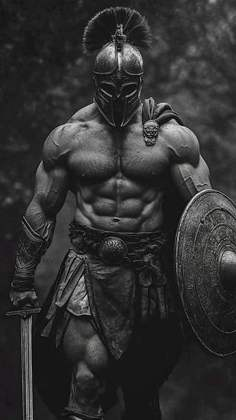
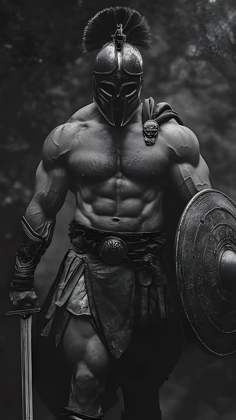
Imaginile vechi la rezoluție mică scoase; intro nou: bustul mărit 4× (Real-ESRGAN), 14 cadre 720p dedicate în spate, ritm tot mai rapid; spartanul mărit; imaginile se păstrează în cache
Claude-Session: https://claude.ai/code/session_01Hh62C1qWTzcBwUiuA6yuRD

diff --git a/index.html b/index.html
@@ -387,10 +387,10 @@ textarea.ji{resize:none;padding:0;border-bottom:0;background-image:repeating-lin
 #intro{position:fixed;inset:0;z-index:30;background:#050505;overflow:hidden;color:#eee;cursor:pointer;--b0:1}
 #intro.out{opacity:0;transform:scale(1.04);transition:opacity .5s ease,transform .5s ease}
 .in-wall{position:absolute;inset:-6%;opacity:0;animation:inWall 2.1s ease .05s forwards}
-.in-wall img{position:absolute;inset:0;width:100%;height:100%;object-fit:cover;filter:grayscale(1) contrast(1.4) brightness(1.05);opacity:0}
+.in-wall img{position:absolute;inset:0;width:100%;height:100%;object-fit:cover;filter:contrast(1.15) brightness(1.3);opacity:0}
 .in-wall img.on{opacity:1}
 @keyframes inWall{0%{opacity:0}15%{opacity:.9}75%{opacity:.75}100%{opacity:0}}
-.in-red{position:absolute;inset:0;background:#a50b0b;mix-blend-mode:multiply;opacity:.6;pointer-events:none}
+.in-red{position:absolute;inset:0;background:radial-gradient(80% 60% at 50% 42%,#e0301f 0%,#9c0d09 60%,#2a0303 100%);mix-blend-mode:multiply;opacity:.55;pointer-events:none}
 .in-embers i{position:absolute;bottom:-10px;width:3px;height:3px;border-radius:50%;background:#ff4d2e;box-shadow:0 0 8px #ff3b1f;animation:ember linear forwards;opacity:0}
 @keyframes ember{0%{opacity:0;transform:translateY(0)}15%{opacity:1}100%{opacity:0;transform:translate(var(--dx),-70vh)}}
 .in-bust{position:absolute;left:50%;top:50%;height:100%;max-width:none;transform:translate(-50%,-50%) scale(1.1);opacity:0;
@@ -1293,9 +1293,7 @@ function artFor(x){
   if(!ART)return null;
   if(artPick.has(x.id))return artPick.get(x.id);
   const th=themesFor(x).filter(t=>ART[t]&&ART[t].length);if(!th.length)return null;
-  const h=hashStr(x.id+"|"+x.t),L0=ART[th[h%th.length]];
-  // imaginile la rezoluție mare (hq) au prioritate; cele vechi apar doar din când în când
-  const HQ=L0.filter(a=>a.id.startsWith("hq")),L=HQ.length>=6&&(h>>>3)%6?HQ:L0;
+  const h=hashStr(x.id+"|"+x.t),L=ART[th[h%th.length]];
   const src=a=>a.src==="HT"?a.id.slice(0,4):a.f;
   let k=(h>>>7)%L.length;
   for(let t=0;t<L.length&&artRecent.includes(src(L[k]));t++)k=(k+1)%L.length;
@@ -2747,28 +2745,31 @@ document.addEventListener("visibilitychange",()=>{if(!document.hidden)setTimeout
 setInterval(()=>{if(!document.hidden)checkMood()},5*60*1000);
 // ── intro la deschidere: cu sunet, așteaptă o atingere (iPhone dă voie la sunet doar după atingere) ──
 let introOn=!!$("intro");
+// cadrele din spatele intro-ului se încarcă imediat (cât aștepți atingerea)
+const WALL=Array.from({length:14},(_,i)=>`brand/wall/w${String(i).padStart(2,"0")}.jpg`),WALLOK=new Set();
+if(introOn)WALL.forEach(u=>{const im=new Image();im.onload=()=>WALLOK.add(u);im.src=u});
 (()=>{
   const el=$("intro");if(!el)return;
   const reduce=matchMedia("(prefers-reduced-motion: reduce)").matches;
   const gate=(S.music||{}).intro!==false;
   let flip=0,started=false;
-  const done=()=>{if(!introOn)return;introOn=false;clearInterval(flip);el.classList.add("out");setTimeout(()=>{el.remove();checkMood();window.Music&&Music.refresh()},520)};
+  const done=()=>{if(!introOn)return;introOn=false;clearTimeout(flip);el.classList.add("out");setTimeout(()=>{el.remove();checkMood();window.Music&&Music.refresh()},520)};
   function begin(){
     if(started)return;started=true;
     el.classList.remove("gate");
     window.__introT0=performance.now();
     // scântei
     if(!reduce){const em=$("in-embers");em.innerHTML=Array.from({length:26},()=>`<i style="left:${Math.random()*100}%;--dx:${(Math.random()*60-30).toFixed(0)}px;animation-duration:${(1.6+Math.random()*1.4).toFixed(2)}s;animation-delay:${(Math.random()*.9).toFixed(2)}s"></i>`).join("")}
-    // scene de luptă care se derulează rapid (ca la începutul unui film Marvel)
-    artP.then(()=>{
-      if(reduce||!ART||!introOn)return;
-      const L=["war","roman","myth","sacred","stoic"].flatMap(k=>ART[k]||[]).slice(0,30).map(a=>"art/thumb/"+a.f);
-      const ok=[];L.forEach(u=>{const im=new Image();im.onload=()=>ok.push(u);im.src=u});
-      const imgs=[...$("in-wall").querySelectorAll("img")];let n=0;
-      flip=setInterval(()=>{if(!ok.length)return;const a=imgs[n%2],b=imgs[(n+1)%2];n++;
-        a.src=ok[n%ok.length];a.style.transform=`scale(${(1.05+Math.random()*.25).toFixed(2)}) translate(${(Math.random()*8-4).toFixed(1)}%,${(Math.random()*8-4).toFixed(1)}%) rotate(${(Math.random()*4-2).toFixed(1)}deg)`;
-        a.classList.add("on");b.classList.remove("on")},85);
-    });
+    // scene care se derulează tot mai repede (ca la începutul unui film): cadre 720p dedicate, deja în cache
+    if(!reduce){
+      const imgs=[...$("in-wall").querySelectorAll("img")];let n=0,dt=210;
+      const step=()=>{if(!introOn)return;const ok=WALL.filter(u=>WALLOK.has(u));
+        if(ok.length){const a=imgs[n%2],b=imgs[(n+1)%2];n++;
+          a.src=ok[n%ok.length];a.style.transform=`scale(${(1.06+Math.random()*.16).toFixed(2)}) translate(${(Math.random()*6-3).toFixed(1)}%,${(Math.random()*6-3).toFixed(1)}%)`;
+          a.classList.add("on");b.classList.remove("on")}
+        dt=Math.max(60,dt*.86);flip=setTimeout(step,dt)};
+      step();
+    }
     setTimeout(done,reduce?1400:2750);
   }
   if(gate){

diff --git a/sw.js b/sw.js
@@ -1,6 +1,6 @@
 // HTube: aplicația merge și fără internet; feed-ul se ia mereu proaspăt când există conexiune
-const CACHE = "imperium-v21";
-const FILES = ["./", "./index.html", "./data.js", "./threads.js", "./body.js", "./sport.js", "./health.js", "./grow.js", "./music.js", "./feed.json", "./channels.json", "./manifest.webmanifest", "./icon-192.png", "./icon-512.png", "./apple-touch-icon.png", "./brand/intro.jpg", "./brand/emblem.png", "./brand/emblem-96.png"];
+const CACHE = "imperium-v22";
+const FILES = ["./", "./index.html", "./data.js", "./threads.js", "./body.js", "./sport.js", "./health.js", "./grow.js", "./music.js", "./feed.json", "./channels.json", "./manifest.webmanifest", "./icon-192.png", "./icon-512.png", "./apple-touch-icon.png", "./brand/intro.jpg", "./brand/emblem.png", "./brand/emblem-96.png", "./brand/wall/w00.jpg", "./brand/wall/w01.jpg", "./brand/wall/w02.jpg", "./brand/wall/w03.jpg", "./brand/wall/w04.jpg", "./brand/wall/w05.jpg", "./brand/wall/w06.jpg", "./brand/wall/w07.jpg", "./brand/wall/w08.jpg", "./brand/wall/w09.jpg", "./brand/wall/w10.jpg", "./brand/wall/w11.jpg", "./brand/wall/w12.jpg", "./brand/wall/w13.jpg"];
 self.addEventListener("install", e => { e.waitUntil(caches.open(CACHE).then(c => c.addAll(FILES.map(f => new Request(f, { cache: "reload" }))))); self.skipWaiting(); });
 self.addEventListener("activate", e => {
   e.waitUntil(caches.keys().then(k => Promise.all(k.filter(x => x !== CACHE).map(x => caches.delete(x)))));
@@ -15,8 +15,8 @@ self.addEventListener("fetch", e => {
     return;
   }
   if (u.origin !== location.origin) return;
-  // corpul 3D (câțiva MB) se descarcă o singură dată pe versiune
-  if (u.pathname.includes("/body/")) {
+  // corpul 3D și imaginile (citate, intro) se descarcă o singură dată pe versiune
+  if (u.pathname.includes("/body/") || u.pathname.includes("/art/") || u.pathname.includes("/brand/")) {
     e.respondWith(caches.match(u.origin + u.pathname).then(m => m || fetch(e.request).then(r => { const c = r.clone(); caches.open(CACHE).then(x => x.put(u.origin + u.pathname, c)); return r; })));
     return;
   }
